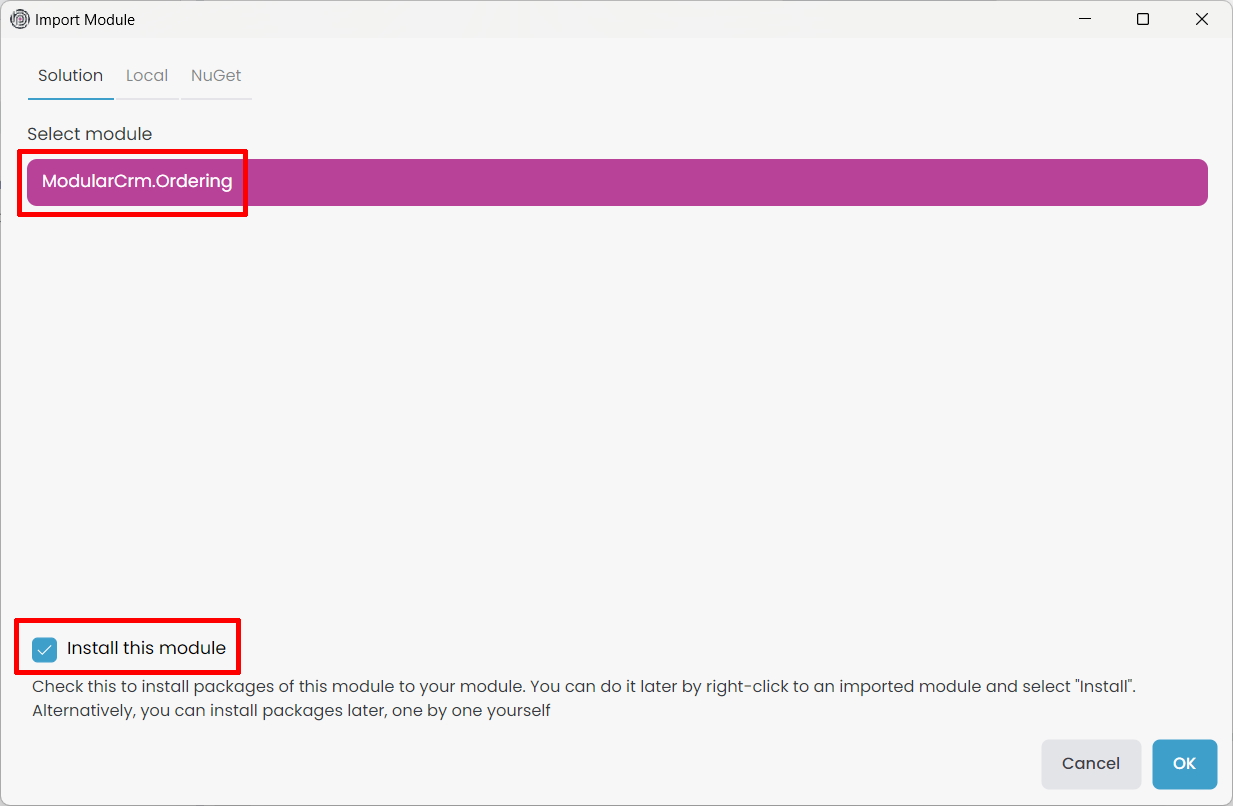
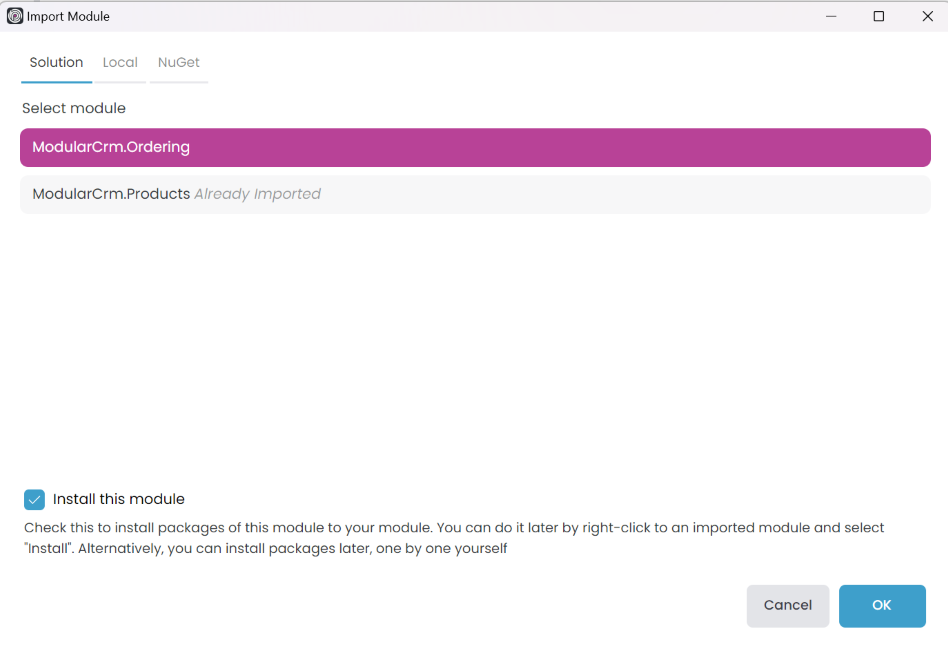
Refine modular CRM tutorial by simplifying instructions for installing the Ordering module and clarifying package selections

diff --git a/docs/en/tutorials/modular-crm/part-04.md b/docs/en/tutorials/modular-crm/part-04.md
@@ -70,8 +70,6 @@ Select the `ModularCrm.Ordering` module and check the *Install this module* opti
 
 ![abp-studio-install-module-dialog](images/abp-studio-install-module-dialog.png)
 
-Select the `ModuleCrm.Ordering` package from the left area and the `ModularCrm.Domain` package from the middle area. Then, select the `ModularCrm.Ordering.UI` package from the left area and the `ModularCrm.Web` package from the middle area, as shown in the preceding figure. Finally, click *OK*.
-
-> Since the Ordering module is not layered, we didn't install its packages to the layers of our main application. We are installing it only to `ModularCrm.Domain`. In this way, we can use the Ordering module from any layer of our application since `ModularCrm.Domain` is one of the core packages of our application. If you build your modules as non-layered and you don't have much code in the main application's .NET solution, you can also consider creating a non-layered main application that composes these modules.
+Select the `ModuleCrm.Ordering` and `ModularCrm.Ordering.UI` packages from the left area and the `ModularCrm` package from the middle area as shown in the preceding figure. Finally, click *OK*.
 
 In this part of the tutorial, we've created a standard module. This allows you to create modules or applications with a different structure. In the next part, we will add functionality to the Ordering module.
